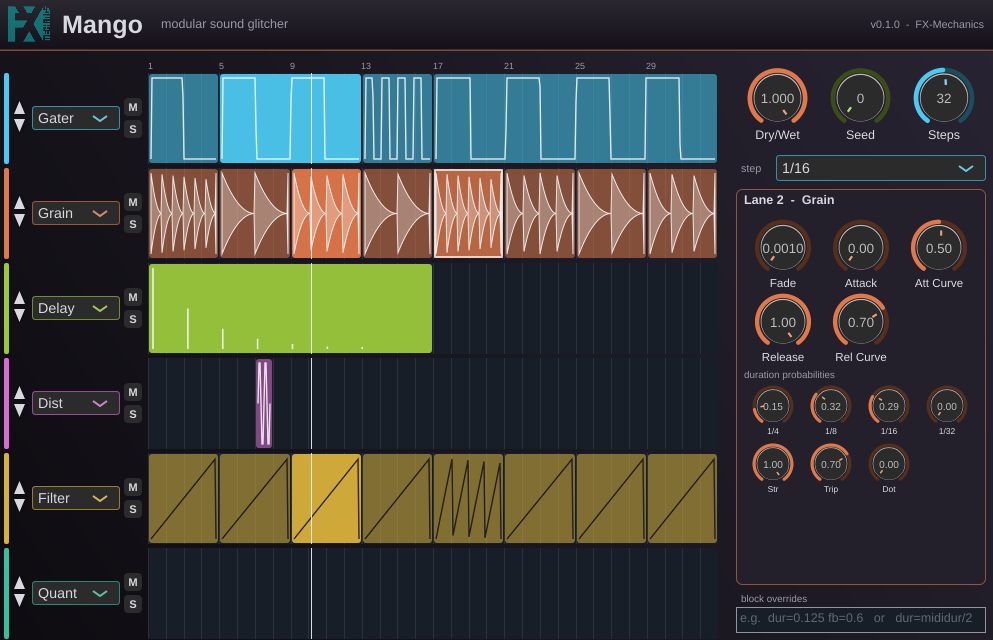
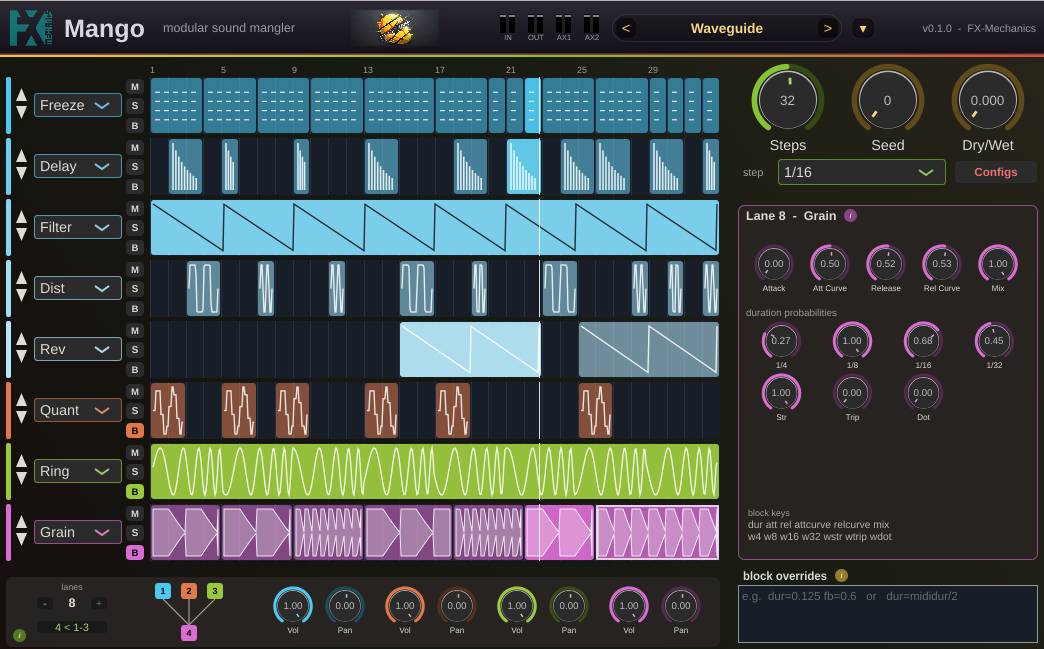
Mango released + femplate teaser

diff --git a/plugins.html b/plugins.html
@@ -77,20 +77,20 @@
             </div>
             <p class="archived-note">
               Plugins in active development: A tool for speaker systems calibration,
-              a glitch sequencer, a take spatializer, a tonnetz explorer...
+              a take spatializer, a tonnetz explorer, a nonlinear plate physical model...
             </p>
             <div class="teaser-grid">
               <div class="teaser-item">
                 <img src="img/spread_teaser.png" alt="Spread — coming soon" loading="lazy" />
               </div>
               <div class="teaser-item">
-                <img src="img/mango_teaser.png" alt="Mango — coming soon" loading="lazy" />
-              </div>
-              <div class="teaser-item">
                 <img src="img/supermoto_teaser.png" alt="SuperMoTo — coming soon" loading="lazy" />
               </div>
               <div class="teaser-item">
                 <img src="img/neorix_teaser.png" alt="Neorix — coming soon" loading="lazy" />
+              </div>
+              <div class="teaser-item">
+                <img src="img/femplate_teaser.png" alt="FemPlate — coming soon" loading="lazy" />
               </div>
             </div>
           </div>
@@ -106,9 +106,33 @@
           <div class="category-block" data-category="effects" id="effects">
             <div class="category-heading">
               <h3>Effects</h3>
-              <span class="count">4 plugins</span>
+              <span class="count">5 plugins</span>
             </div>
             <div class="grid">
+
+              <div class="card">
+                <a class="card-media" href="img/mango.png" target="_blank">
+                  <img src="img/mango.png" alt="Mango screenshot" loading="lazy" />
+                </a>
+                <div class="card-body">
+                  <div class="card-head">
+                    <div class="card-title">Mango</div>
+                    <span class="card-tag effects">Effect</span>
+                  </div>
+                  <p class="card-text">
+                    Mango is a modular sound glitcher: route audio through a chain of
+                    step-sequenced lanes (gater, grain, delay, distortion, filter, quantizer)
+                    where each step can carry its own settings and probabilities. Randomized
+                    seeds and per-step duration/curve controls turn static loops into
+                    constantly mutating, glitchy textures.
+                  </p>
+                  <div class="card-links">
+                    <a href="https://github.com/odoare/Mango" target="_blank" rel="noopener">Info on github</a>
+                    <a href="https://github.com/odoare/Mango/releases" target="_blank" rel="noopener">Download</a>
+                    <a href="files/minilanguage.pdf" target="_blank" rel="noopener">Mini language handout</a>
+                  </div>
+                </div>
+              </div>
 
               <div class="card">
                 <a class="card-media" href="img/AmbiRR2.png" target="_blank">
@@ -130,9 +154,33 @@
                     response, so both can be automated freely in the DAW.
                   </p>
                   <div class="card-links">
-                    <a href="https://github.com/odoare/AmbiRR2" target="_blank" rel="noopener">GitHub</a>
+                    <a href="https://github.com/odoare/AmbiRR2" target="_blank" rel="noopener">Info on github</a>
                     <a href="https://github.com/odoare/AmbiRR2/releases" target="_blank" rel="noopener">Download</a>
                     <a href="files/AmbiRR2.pdf" target="_blank" rel="noopener">Manual</a>
+                  </div>
+                </div>
+              </div>
+
+              <div class="card">
+                <a class="card-media" href="img/tear_0.3_screen.png" target="_blank">
+                  <img src="img/tear_0.3_screen.png" alt="TeAr screenshot" loading="lazy" />
+                </a>
+                <div class="card-body">
+                  <div class="card-head">
+                    <div class="card-title">TeAr</div>
+                    <span class="card-tag effects">MIDI FX</span>
+                  </div>
+                  <p class="card-text">
+                    TeAr is an advanced polyrhythmic and polyphonic MIDI arpeggiator plugin. It
+                    features any number of independent arpeggiator engines, each with its own pattern,
+                    subdivision and MIDI output channel, enabling complex, evolving musical
+                    phrases and textures.
+                  </p>
+                  <div class="card-links">
+                    <a href="https://github.com/odoare/TeAr" target="_blank" rel="noopener">Info on github</a>
+                    <a href="https://github.com/odoare/TeAr/releases" target="_blank" rel="noopener">Download</a>
+                    <a href="https://www.youtube.com/watch?v=__oc9Wncv1Y" target="_blank" rel="noopener">Demo video</a>
+                    <a href="https://www.youtube.com/watch?v=pWOuQep7nIs" target="_blank" rel="noopener">Tutorial</a>
                   </div>
                 </div>
               </div>
@@ -154,7 +202,7 @@
                     movement to any track.
                   </p>
                   <div class="card-links">
-                    <a href="https://github.com/odoare/RhyGa" target="_blank" rel="noopener">GitHub</a>
+                    <a href="https://github.com/odoare/RhyGa" target="_blank" rel="noopener">Info on github</a>
                     <a href="https://github.com/odoare/RhyGa/releases" target="_blank" rel="noopener">Download</a>
                   </div>
                 </div>
@@ -176,31 +224,7 @@
                     effects as the cutoff frequency is varied.
                   </p>
                   <div class="card-links">
-                    <a href="https://github.com/odoare/TripleDist" target="_blank" rel="noopener">GitHub</a>
-                  </div>
-                </div>
-              </div>
-
-              <div class="card">
-                <a class="card-media" href="img/tear_0.3_screen.png" target="_blank">
-                  <img src="img/tear_0.3_screen.png" alt="TeAr screenshot" loading="lazy" />
-                </a>
-                <div class="card-body">
-                  <div class="card-head">
-                    <div class="card-title">TeAr</div>
-                    <span class="card-tag effects">MIDI FX</span>
-                  </div>
-                  <p class="card-text">
-                    TeAr is an advanced polyrhythmic and polyphonic MIDI arpeggiator plugin. It
-                    features any number of independent arpeggiator engines, each with its own pattern,
-                    subdivision and MIDI output channel, enabling complex, evolving musical
-                    phrases and textures.
-                  </p>
-                  <div class="card-links">
-                    <a href="https://github.com/odoare/TeAr" target="_blank" rel="noopener">GitHub</a>
-                    <a href="https://github.com/odoare/TeAr/releases" target="_blank" rel="noopener">Download</a>
-                    <a href="https://www.youtube.com/watch?v=__oc9Wncv1Y" target="_blank" rel="noopener">Demo video</a>
-                    <a href="https://www.youtube.com/watch?v=pWOuQep7nIs" target="_blank" rel="noopener">Tutorial</a>
+                    <a href="https://github.com/odoare/TripleDist" target="_blank" rel="noopener">Info on github</a>
                   </div>
                 </div>
               </div>
@@ -231,7 +255,7 @@
                     modulation engine. It's the new, more powerful and modular successor to StrinGO.
                   </p>
                   <div class="card-links">
-                    <a href="https://github.com/odoare/MechanOdd" target="_blank" rel="noopener">GitHub</a>
+                    <a href="https://github.com/odoare/MechanOdd" target="_blank" rel="noopener">Info on github</a>
                     <a href="https://github.com/odoare/MechanOdd/releases" target="_blank" rel="noopener">Download</a>
                   </div>
                 </div>
@@ -253,7 +277,7 @@
                     chain to deliver a studio-ready drum sound.
                   </p>
                   <div class="card-links">
-                    <a href="https://github.com/odoare/FxmeSampler" target="_blank" rel="noopener">GitHub</a>
+                    <a href="https://github.com/odoare/FxmeSampler" target="_blank" rel="noopener">Info on github</a>
                     <a href="https://github.com/odoare/FxmeSampler/releases" target="_blank" rel="noopener">Download</a>
                     <a href="https://www.youtube.com/watch?v=3gGJhpji6mE" target="_blank" rel="noopener">Demo video</a>
                   </div>
@@ -275,7 +299,7 @@
                     and user images can be imported for even more sonic possibilities.
                   </p>
                   <div class="card-links">
-                    <a href="https://github.com/odoare/Image-In" target="_blank" rel="noopener">GitHub</a>
+                    <a href="https://github.com/odoare/Image-In" target="_blank" rel="noopener">Info on github</a>
                     <a href="https://github.com/odoare/Image-In/releases" target="_blank" rel="noopener">Download</a>
                   </div>
                 </div>
@@ -297,7 +321,7 @@
                     complex, ever-changing, organic sounds.
                   </p>
                   <div class="card-links">
-                    <a href="https://github.com/odoare/Lorenz" target="_blank" rel="noopener">GitHub</a>
+                    <a href="https://github.com/odoare/Lorenz" target="_blank" rel="noopener">Info on github</a>
                     <a href="https://github.com/odoare/Lorenz/releases" target="_blank" rel="noopener">Pre-release download</a>
                   </div>
                 </div>
@@ -329,7 +353,7 @@
                     other DAWs too.
                   </p>
                   <div class="card-links">
-                    <a href="https://github.com/odoare/MoTo" target="_blank" rel="noopener">GitHub</a>
+                    <a href="https://github.com/odoare/MoTo" target="_blank" rel="noopener">Info on github</a>
                     <a href="https://github.com/odoare/MoTo/releases" target="_blank" rel="noopener">Latest release</a>
                   </div>
                 </div>
@@ -349,7 +373,7 @@
                     with some hardware MIDI keyboards whose pitch wheel doesn't return exactly to zero.
                   </p>
                   <div class="card-links">
-                    <a href="https://github.com/odoare/PiWheeG" target="_blank" rel="noopener">GitHub</a>
+                    <a href="https://github.com/odoare/PiWheeG" target="_blank" rel="noopener">Info on github</a>
                   </div>
                 </div>
               </div>
@@ -369,7 +393,7 @@
                     playing notes and chords on a connected MIDI keyboard.
                   </p>
                   <div class="card-links">
-                    <a href="https://github.com/odoare/FlappyChord" target="_blank" rel="noopener">GitHub</a>
+                    <a href="https://github.com/odoare/FlappyChord" target="_blank" rel="noopener">Info on github</a>
                     <a href="https://github.com/odoare/FlappyChord/releases" target="_blank" rel="noopener">Download</a>
                   </div>
                 </div>
@@ -408,7 +432,7 @@
                     should use that instead.
                   </p>
                   <div class="card-links">
-                    <a href="https://github.com/odoare/BiRR" target="_blank" rel="noopener">GitHub</a>
+                    <a href="https://github.com/odoare/BiRR" target="_blank" rel="noopener">Info on github</a>
                     <a href="https://github.com/odoare/BiRR/releases" target="_blank" rel="noopener">Download</a>
                   </div>
                 </div>
@@ -431,7 +455,7 @@
                     modular successor: new projects should use that instead.
                   </p>
                   <div class="card-links">
-                    <a href="https://github.com/odoare/StrinGO" target="_blank" rel="noopener">GitHub</a>
+                    <a href="https://github.com/odoare/StrinGO" target="_blank" rel="noopener">Info on github</a>
                     <a href="https://github.com/odoare/StrinGO/releases" target="_blank" rel="noopener">Pre-release download</a>
                   </div>
                 </div>

diff --git a/downloads.html b/downloads.html
@@ -105,7 +105,7 @@
                   <div class="desc">Three-band filter/distortion with per-band panning for spatialized tone shaping.</div>
                 </div>
                 <div class="links">
-                  <a class="primary" href="https://github.com/odoare/TripleDist" target="_blank" rel="noopener">GitHub</a>
+                  <a class="primary" href="https://github.com/odoare/TripleDist" target="_blank" rel="noopener">Info on github</a>
                 </div>
               </div>
 
@@ -199,7 +199,7 @@
                   <div class="desc">Fixes hardware MIDI keyboards whose pitch wheel doesn't return to zero.</div>
                 </div>
                 <div class="links">
-                  <a class="primary" href="https://github.com/odoare/PiWheeG" target="_blank" rel="noopener">GitHub</a>
+                  <a class="primary" href="https://github.com/odoare/PiWheeG" target="_blank" rel="noopener">Info on github</a>
                 </div>
               </div>
 
